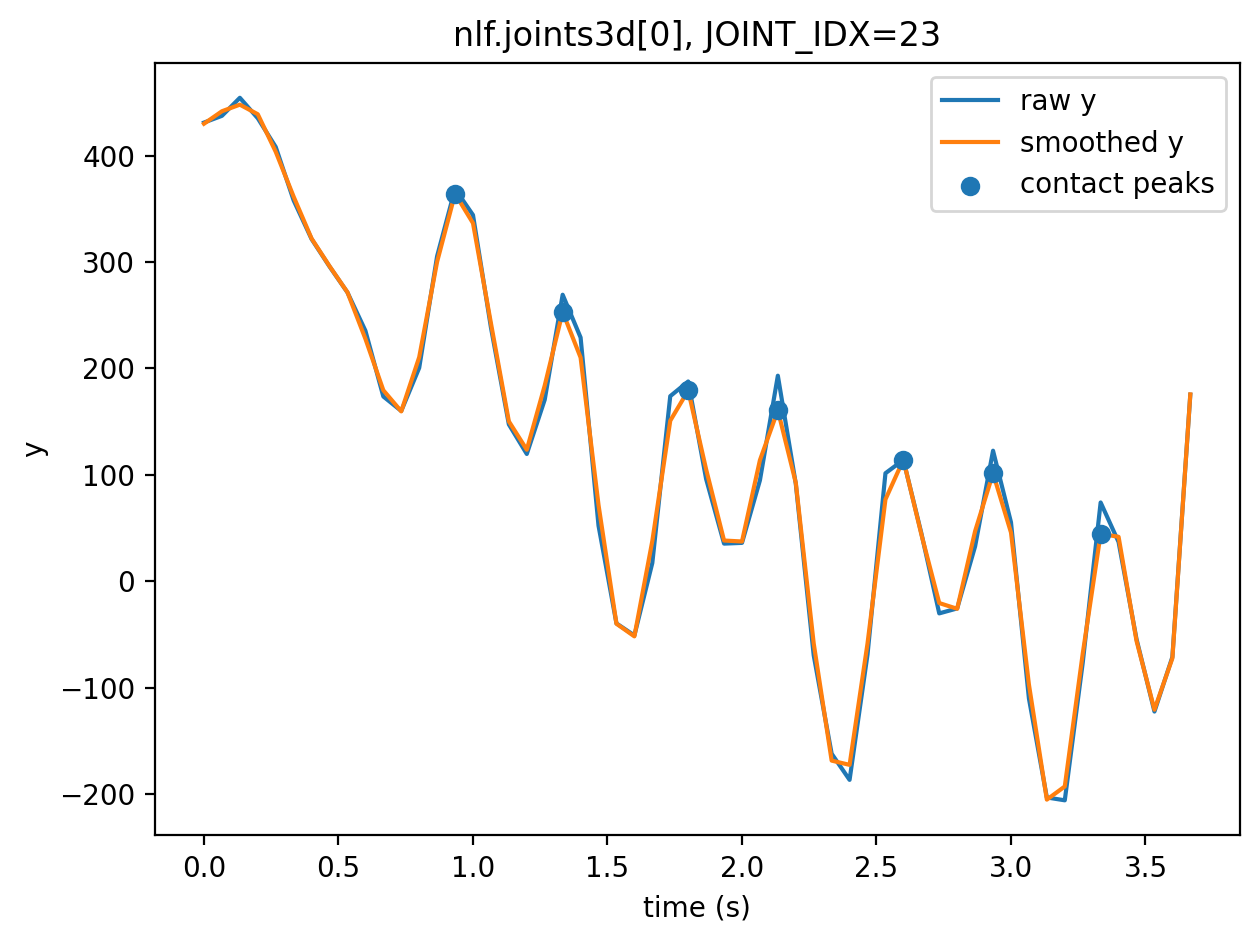
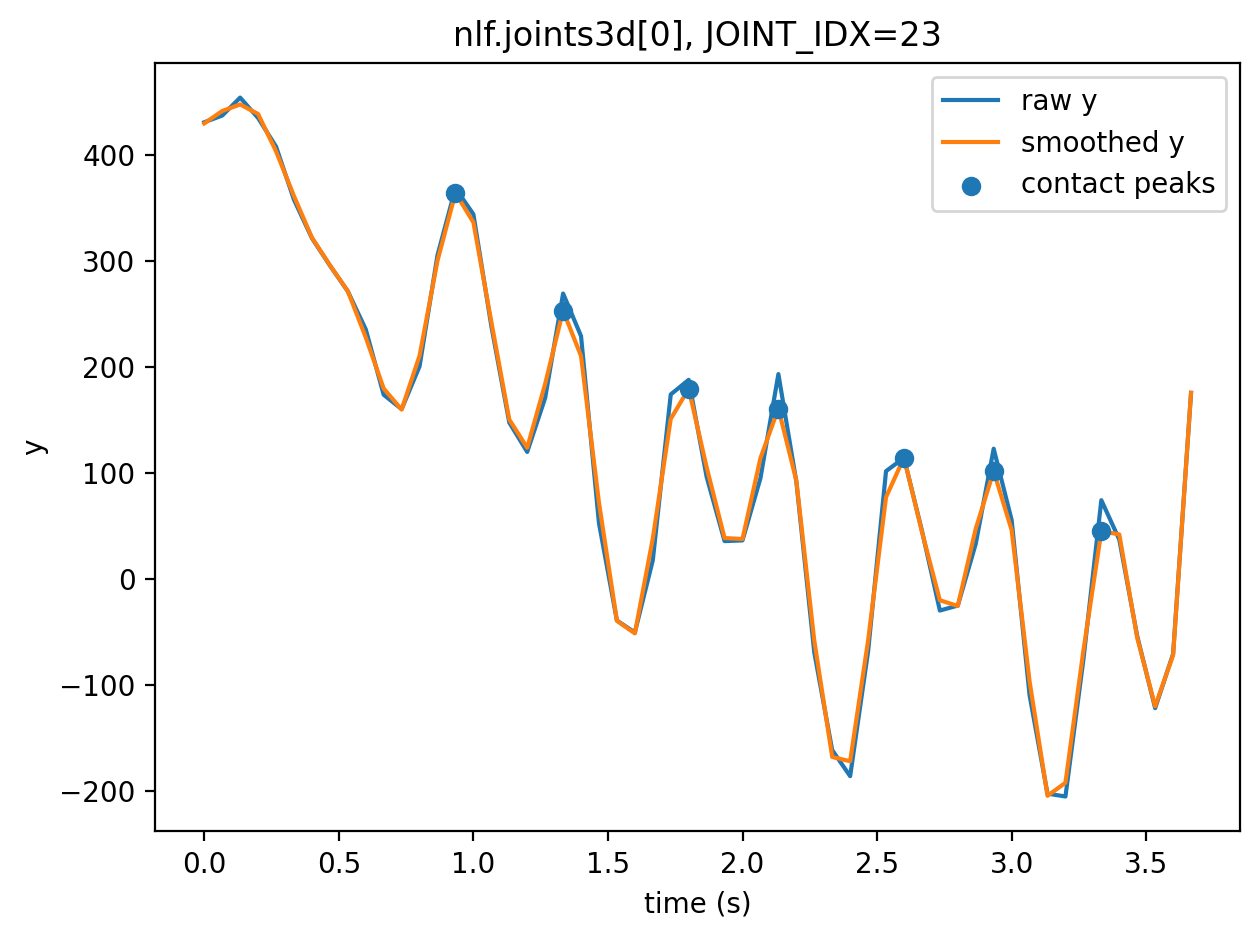
compartmentalized the code, now reusable functions make us analyze multiple joints at once and compare

diff --git a/gait_analysis.py b/gait_analysis.py
@@ -1,7 +1,6 @@
-import json
-import numpy as np
 import matplotlib.pyplot as plt
-from scipy.signal import savgol_filter, find_peaks
+from math_utility import *
+from io_utility import *
 
 JSONL_PATH = "run_nlf.jsonl"
 
@@ -9,120 +8,51 @@ JSONL_PATH = "run_nlf.jsonl"
 TARGET_PATH = "nlf.joints3d[0]"          # <-- bunu kullan
 # TARGET_PATH = "nlf.joints3d_nonparam[0]"  # alternatif
 
-JOINT_IDX = 23   # sağ ayak için deneyeceğin index (0-23 arası)
-OUT_PLOT = f"joints3d_idx{JOINT_IDX}.png"
 
-def normalize_arr(arr: np.ndarray) -> np.ndarray:
-    # [1,J,3] -> [J,3]
-    if arr.ndim == 3 and arr.shape[0] == 1:
-        return arr[0]
-    return arr
+JOINT_IDX = 8   # sağ ayak için deneyeceğin index (0-23 arası)
 
-def extract_by_path(nlf_obj, path: str):
-    # path: "nlf.joints3d[0]" gibi
-    p = path
-    if p.startswith("nlf."):
-        p = p[4:]
-    cur = nlf_obj
-    for part in p.split("."):
-        if not part:
-            continue
-        if "[" in part:
-            key, idx = part.split("[", 1)
-            idx = int(idx.replace("]", ""))
-            cur = cur[key][idx]
-        else:
-            cur = cur[part]
-    return cur
+video_nlf = open_nlf_output_json(json_path=JSONL_PATH)
 
-records = []
-with open(JSONL_PATH, "r", encoding="utf-8") as f:
-    for line in f:
-        line = line.strip()
-        if not line:
-            continue
-        rec = json.loads(line)
-        if rec.get("ok") is True and "nlf" in rec:
-            records.append(rec)
 
-if len(records) == 0:
-    raise SystemExit("JSONL içinde ok=true olan kayıt bulunamadı.")
+times, ys = extract_ys_and_times(video_nlf=video_nlf, target_path=TARGET_PATH, joint_idx=JOINT_IDX)
+dts = get_dt(times)
+ys_smooth = smooth(ys, dts)
+peaks= find_y_peaks(ys_smooth=ys_smooth, dts=dts)
 
-times, ys = [], []
 
-for rec in records:
-    nlf = rec["nlf"]
-    t = rec.get("timestamp_sec", None)
-    if t is None:
-        continue
+times_heel, ys_heel = extract_ys_and_times(video_nlf=video_nlf, target_path=TARGET_PATH, joint_idx="right_heel")
+dts_heel = get_dt(times_heel)
+ys_heel_smooth = smooth(ys_heel, dts_heel)
+minimums_heel = find_minima_indices(ys_heel_smooth, dts_heel)
 
-    try:
-        raw = extract_by_path(nlf, TARGET_PATH)
-        arr = normalize_arr(np.array(raw, dtype=np.float32))
+times_toe, ys_toe = extract_ys_and_times(video_nlf=video_nlf, target_path=TARGET_PATH, joint_idx="right_toe")
+dts_toe = get_dt(times_toe)
+ys_toe_smooth = smooth(ys_toe, dts_toe)
+minimums_toe = find_minima_indices(ys_toe_smooth, dts_toe)
 
-        # Beklenen: [24,3]
-        if arr.ndim != 2 or arr.shape[1] != 3:
-            continue
-        if not (0 <= JOINT_IDX < arr.shape[0]):
-            raise SystemExit(f"JOINT_IDX={JOINT_IDX} out of range. This joints array has J={arr.shape[0]}.")
+"""
+average_foot_contact_times = (times_heel[minimums_heel] + times_toe[minimums_toe]) / 2
 
-        y = float(arr[JOINT_IDX, 1])
-    except Exception:
-        continue
+cycles = [(average_foot_contact_times[k], average_foot_contact_times[k+1]) for k in range(len(average_foot_contact_times)-1)]
+print(f"Total cycles (using heel & toe minima): {len(cycles)}")
+"""
 
-    times.append(float(t))
-    ys.append(y)
-
-times = np.array(times, dtype=np.float32)
-y = np.array(ys, dtype=np.float32)
-
-if len(y) < 10:
-    raise SystemExit("Not enough valid frames after extraction. TARGET_PATH veya json formatı uyuşmuyor olabilir.")
-
-# Smooth
-dt = np.median(np.diff(times)) if len(times) > 2 else 1/30
-win = int(max(5, round(0.20 / dt)))
-if win % 2 == 0:
-    win += 1
-if win >= len(y):
-    win = len(y) - 1 if (len(y) - 1) % 2 == 1 else len(y) - 2
-    win = max(win, 5)
-
-y_s = savgol_filter(y, window_length=win, polyorder=3)
-
-# Contact detection
-# Sen "y ters" dedin -> contact ~ local MAX diyelim:
-min_dist = int(max(1, round(0.25 / dt)))
-prom = float(np.std(y_s) * 0.3)
-peaks, props = find_peaks(y_s, distance=min_dist, prominence=prom)
-
-# Eğer sende contact minimum çıkıyorsa, bunu kullan:
-# peaks, props = find_peaks(-y_s, distance=min_dist, prominence=prom)
-
-print(f"Using TARGET_PATH: {TARGET_PATH}  (J={arr.shape[0]} from last valid frame)")
-print(f"Valid frames: {len(y)}")
+"""
+#print(f"Using TARGET_PATH: {TARGET_PATH}  (J={arr.shape[0]} from last valid frame)")
+print(f"Valid frames: {len(ys)}")
 print(f"Detected contact candidates: {len(peaks)}")
 print("First 10 peaks (t, y_s):")
 for i in peaks[:10]:
-    print(f"t={times[i]:.3f}s  y={y_s[i]:.4f}")
+    print(f"t={times[i]:.3f}s  y={y_smooth[i]:.4f}")
 
 cycles = [(times[peaks[k]], times[peaks[k+1]]) for k in range(len(peaks)-1)]
 print(f"Total cycles: {len(cycles)}")
 print("First 5 cycles (t_start -> t_end):")
 for c in cycles[:5]:
     print(c)
+"""
 
 # Plot
-plt.figure()
-plt.plot(times, y, label="raw y")
-plt.plot(times, y_s, label="smoothed y")
-plt.scatter(times[peaks], y_s[peaks], label="contact peaks", zorder=3)
-plt.xlabel("time (s)")
-plt.ylabel("y")
-plt.title(f"{TARGET_PATH}, JOINT_IDX={JOINT_IDX}")
-plt.legend()
-plt.tight_layout()
-
-plt.savefig(OUT_PLOT, dpi=200, bbox_inches="tight")
-plt.show()
-print("Saved:", OUT_PLOT)
+#plot_results(times_heel, ys_heel, ys_heel_smooth, minimums_heel, 8, TARGET_PATH)
+#plot_results
+plot_results(times, ys, ys_smooth, peaks, JOINT_IDX, TARGET_PATH)

diff --git a/io_utility.py b/io_utility.py
@@ -1,0 +1,94 @@
+import json
+from math_utility import *
+import matplotlib.pyplot as plt
+
+JOINT_MAP = {
+    "left_heel": 7,
+    "right_heel": 8,
+    "left_toe": 10,
+    "right_toe": 11
+}
+
+def extract_by_path(nlf_obj, target_path: str):
+    # path: "nlf.joints3d[0]" gibi
+    p = target_path
+    if p.startswith("nlf."):
+        p = p[4:]
+    cur = nlf_obj
+    for part in p.split("."):
+        if not part:
+            continue
+        if "[" in part:
+            key, idx = part.split("[", 1)
+            idx = int(idx.replace("]", ""))
+            cur = cur[key][idx]
+        else:
+            cur = cur[part]
+    return cur
+
+def open_nlf_output_json(json_path: str):
+    result = []
+    with open(json_path, "r", encoding="utf-8") as f:
+        for line in f:
+            line = line.strip()
+            if not line:
+                continue
+            rec = json.loads(line)
+            if rec.get("ok") is True and "nlf" in rec:
+                result.append(rec)
+
+    if len(result) == 0:
+        raise SystemExit("JSONL içinde ok=true olan kayıt bulunamadı.")
+    return result
+
+def extract_ys_and_times(video_nlf, target_path, joint_idx):
+    if isinstance(joint_idx, str):
+        if joint_idx not in JOINT_MAP:
+            raise ValueError(f"Unknown joint name '{joint_idx}'. Valid names: {list(JOINT_MAP.keys())}")
+        joint_idx = JOINT_MAP[joint_idx]
+    times, ys = [], []
+    for frame_nlf in video_nlf:
+        frame_nlf_data = frame_nlf["nlf"]
+        t = frame_nlf.get("timestamp_sec", None)
+        if t is None:
+            continue
+
+        try:
+            joints_positions = extract_by_path(nlf_obj=frame_nlf_data, target_path=target_path)
+            normalized_js_pos = normalize_arr(np.array(joints_positions, dtype=np.float32))
+
+            # Beklenen: [24,3]
+            if normalized_js_pos.ndim != 2 or normalized_js_pos.shape[1] != 3:
+                continue
+            if not (0 <= joint_idx < normalized_js_pos.shape[0]):
+                raise SystemExit(f"JOINT_IDX={joint_idx} out of range. This joints array has J={normalized_js_pos.shape[0]}.")
+
+            y = float(normalized_js_pos[joint_idx, 1])
+        except Exception:
+            continue
+
+        times.append(float(t))
+        ys.append(y)
+
+    times = np.array(times, dtype=np.float32)
+    y = np.array(ys, dtype=np.float32)
+
+    if len(y) < 10:
+        raise SystemExit("Not enough valid frames after extraction. TARGET_PATH veya json formatı uyuşmuyor olabilir.")
+
+    return times, y
+
+def plot_results(times, ys, ys_smooth, indices, joint_idx, target_path):
+    out_plot = f"joints3d_idx{joint_idx}.png"
+    plt.figure()
+    plt.plot(times, ys, label="raw y")
+    plt.plot(times, ys_smooth, label="smoothed y")
+    plt.scatter(times[indices], ys_smooth[indices], label="contact indices", zorder=3)
+    plt.xlabel("time (s)")
+    plt.ylabel("y")
+    plt.title(f"{target_path}, JOINT_IDX={joint_idx}")
+    plt.legend()
+    plt.tight_layout()
+    plt.savefig(out_plot, dpi=200, bbox_inches="tight")
+    plt.show()
+    print("Saved:", out_plot)

diff --git a/math_utility.py b/math_utility.py
@@ -1,0 +1,34 @@
+import numpy as np
+from scipy.signal import savgol_filter, find_peaks
+
+
+def normalize_arr(arr: np.ndarray) -> np.ndarray:
+    # [1,J,3] -> [J,3]
+    if arr.ndim == 3 and arr.shape[0] == 1:
+        return arr[0]
+    return arr
+
+def get_dt(times_list):
+    return np.median(np.diff(times_list)) if len(times_list) > 2 else 1 / 30
+
+def smooth(y_list, dts):
+    win = int(max(5, round(0.20 / dts)))
+    if win % 2 == 0:
+        win += 1
+    if win >= len(y_list):
+        win = len(y_list) - 1 if (len(y_list) - 1) % 2 == 1 else len(y_list) - 2
+        win = max(win, 5)
+    y_s = savgol_filter(y_list, window_length=win, polyorder=3)
+    return y_s
+
+def find_y_peaks(ys_smooth, dts):
+    min_dist = int(max(1, round(0.25 / dts)))
+    prom = float(np.std(ys_smooth) * 0.3)
+    peaks, props = find_peaks(ys_smooth, distance=min_dist, prominence=prom)
+    return peaks
+
+def find_minima_indices(ys_smooth, dts):
+    min_dist = int(max(1, round(0.25 / dts)))
+    prom = float(np.std(ys_smooth) * 0.3)
+    minima, props = find_peaks(-ys_smooth, distance=min_dist, prominence=prom)
+    return minima
